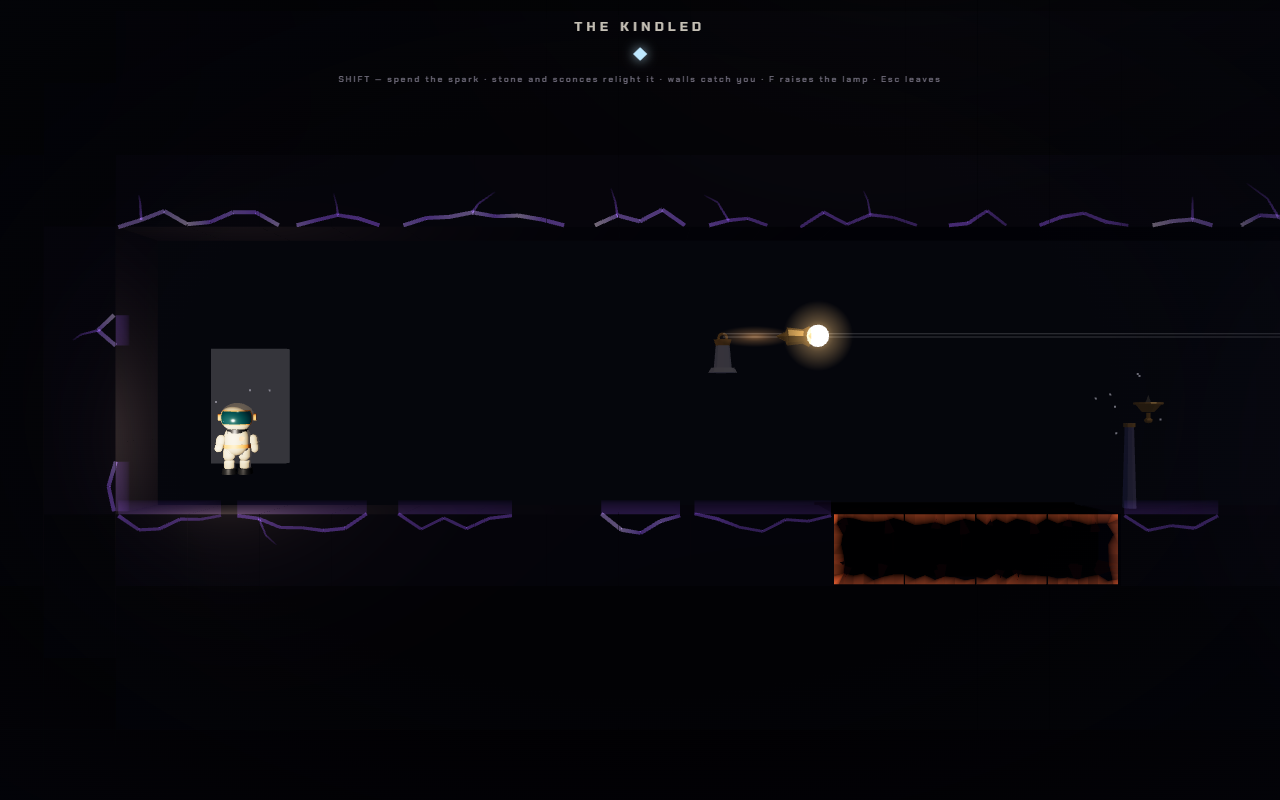
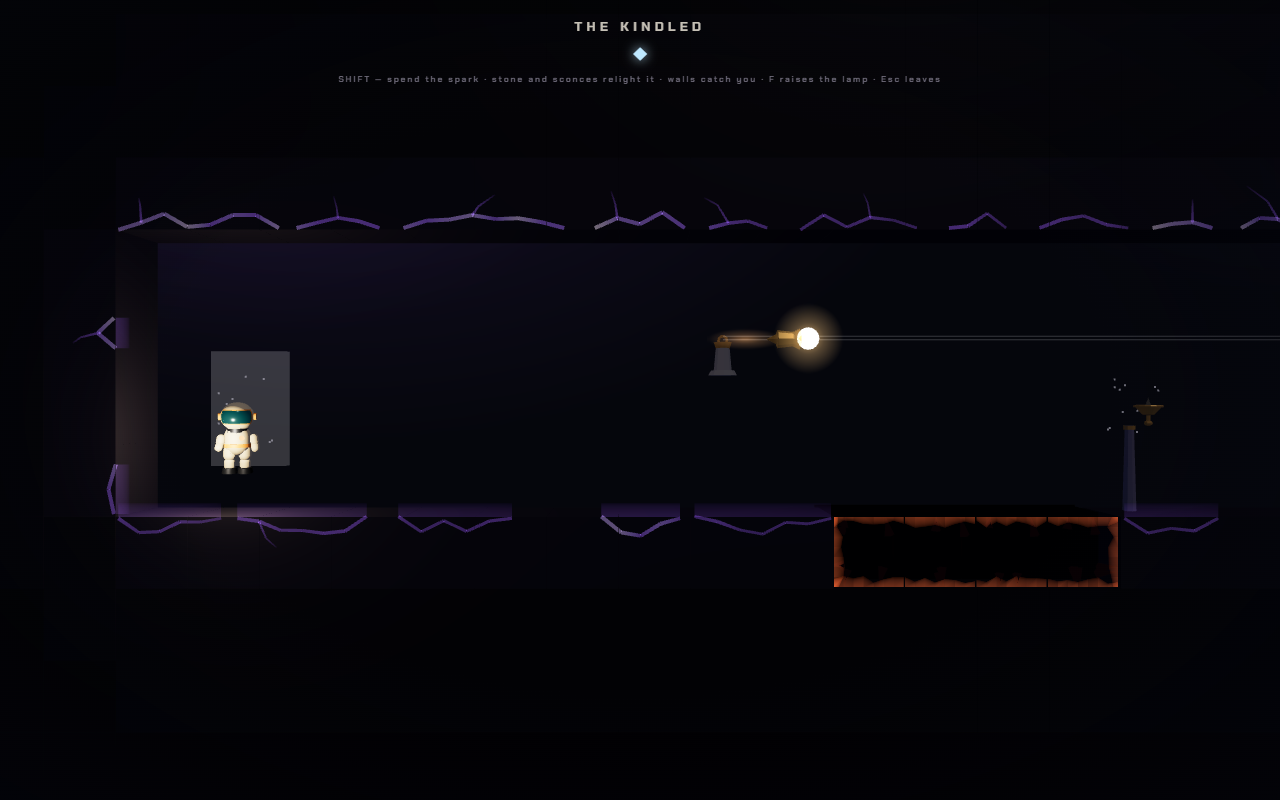
V4 · THE DEBT
A mirrored diptych sharing a wall, and the mirror is the lesson: everything
you did on the left, re-read upside down on the right. The pistons are one
system with the gravity — same period, opposite phase, both sides of the
ledger paid.

The door is not a lock. Its price is one sconce lit under each gravity, so
the sum cannot be paid without understanding both halves, which is what a
room means when it says this is arithmetic.

Two authoring errors the guardrails caught that reading the code would not
have. The shared wall is two courses thick and the doorway was cut through
only the far one, so the door was walled off from the side you approach it
from and the whole right cell was sealed — the reach model called it, the
old flood walk would have too but nothing was grading it. And the second
ledger sconce sat ON its course, which in up-gravity is the one place a body
can never rest: over there you hang against the underside.

Left out, on purpose: the walled-up doorway with a lit sconce visible through
the gap and no route to it. It is a lovely beat and it is atmosphere §3.5,
but an unreachable sconce is exactly what vaultfit exists to fail, and
teaching the suite to ignore one would cost more than the beat is worth. It
wants a decor-only glyph, which is a parser change, not a map change.

Graded: golden path proved, 3/3 sconces, clean on all three layout lints.

diff --git a/src/world/vaults.ts b/src/world/vaults.ts
@@ -652,46 +652,70 @@ export const VAULTS: VaultDef[] = [
       '############################################################'
     ],
   },
-  // 7 · THE DEBT — two rooms sharing a wall, and both sides get paid:
-  // the door to the stone takes a sconce lit under EACH gravity. Stone
-  // pistons still cycle on both sides — mirrored, out of phase.
+  // 7 · THE DEBT — a mirrored diptych sharing a wall, and the mirror is the
+  // lesson: everything you did on the left, re-read upside down on the right.
+  // The pistons are one system with the gravity — same period, opposite
+  // phase, both sides of the ledger paid.
+  //
+  // The door is not a lock. Its price is one sconce lit under EACH gravity,
+  // so the sum cannot be paid without understanding both halves, which is
+  // what "this is arithmetic" means when a room says it.
   {
     glyph: 'debt',
-    // one cut at the shared wall, one inside the upside-down cell — the
-    // arithmetic is paid twice, so it is framed twice
-    chambers: [20, 37],
+    chambers: [17, 35],
     doorNeeds: { '1': 2 },
     crushers: [
-      // left cell: pistons emerge from the walls across the ledge climb
-      { x: 1, y: 7, w: 2, h: 2, dx: 3, dy: 0, period: 3.4, phase: 0 },
-      { x: 19, y: 11, w: 2, h: 2, dx: -4, dy: 0, period: 3.4, phase: 0.5 },
-      // right cell, upside down: they drop from what you fall toward
-      { x: 30, y: 1, w: 2, h: 2, dx: 0, dy: 4, period: 3.4, phase: 0.75 },
-      { x: 38, y: 1, w: 2, h: 2, dx: 0, dy: 5, period: 2.55, phase: 0.25 },
+      // the left bank, out of the wall the way a piston has always come
+      { x: 1, y: 17, w: 2, h: 2, dx: 4, dy: 0, period: 3.4, phase: 0 },
+      { x: 13, y: 18, w: 2, h: 2, dx: -4, dy: 0, period: 3.4, phase: 0.5 },
+      // and the right bank, mirrored: same period, opposite phase, descending
+      // out of what the body over there calls the floor
+      { x: 24, y: 4, w: 2, h: 2, dx: 0, dy: 4, period: 3.4, phase: 0.5 },
+      { x: 26, y: 22, w: 2, h: 2, dx: 0, dy: -4, period: 3.4, phase: 0 },
+      // interleaved once more across the crossing
+      { x: 38, y: 4, w: 2, h: 2, dx: 0, dy: 3, period: 2.55, phase: 0.25 },
+      { x: 46, y: 17, w: 2, h: 2, dx: 0, dy: 3, period: 2.55, phase: 0.75 },
+    ],
+    censers: [
+      // one lantern per cell, swinging in each cell's own down
+      { x: 9, y: 16, len: 2.8, arc: 0.9, period: 2.55, phase: 0 },
+      { x: 27, y: 12, len: 2.8, arc: 0.9, period: 2.55, phase: 0.5 },
+    ],
+    shuttles: [
+      { x0: 20, y0: 7, x1: 34, y1: 7, period: 3.4, phase: 0.25 },
+      { x0: 15, y0: 20, x1: 3, y1: 20, period: 2.55, phase: 0.75 },
     ],
     map: [
       '######################################################',
       '######################################################',
+      '#................##^^^^^^^^^^^^^^^^^#^^^^^^^^#.......#',
+      '#................#############################.......#',
+      '#................##^^^^^^^^^^^^^^^^^#^^^^^^^^#.......#',
+      '#................##X^^^^^^^^ooooooo^#^^^^^^^^#.......#',
+      '#................##^#######^^^^^^^^^#^^ooooo^#.......#',
+      '#................##^^^^^^^^^^^^^^^^^#^######^#.......#',
+      '#................##^^^^^^^^^^^^^^^^^#^^^^^^^^#.......#',
+      '#..........#####S##^^^^^^^^########^#^^^^^^^^#.......#',
+      '#.########.......##^^^^^^^^^^^^^^^^^#^ooooo^^#.......#',
+      '#................##^^^^^^^^ooooooo^^##########.......#',
+      '#..ooooo.........#########^^^^^^^^^^#^^^^^^^^#.......#',
+      '#.......########.##^^^^^^^^^^^^^^^^X#^^^^^^^^#.......#',
+      '#X...............##^^^^^^^^^^^^^^^^^#^^^^^^^^#.......#',
+      '#...............X##^^^^^^^#########^^^^^^^^^^#.......#',
+      '########.........##^^^^^^^^^^^^^^^^^.........#######.#',
+      '#................##X^^^^^^^^^oooooo^.................#',
+      '#................##^########^^^^^^^^.................#',
+      '#........#######.##^^^^^^^^^^^^^^^^^..........oooooo.#',
+      '#...............X##^^^^^^^^^^^^^^^^^#.........########',
+      '#.........ooooo..##^^^^^^^^^#########................#',
+      '#.#######........11^^^^^^^^^^^^^^^^S#................#',
+      '#................11^oooooo^^^^^^^^^^#.........NoMoF..#',
+      '#X...............11########^^^^^^^^^#........#######.#',
+      '#..@..S.ooooooo..11^^^^^^^^^^^^^^^^^#................#',
+      '###################^^^^^^^^^^^^^^^^^#................#',
+      '#####################################................#',
       '######################################################',
-      '#....................^^^^^^XXX^^^^^^^SXX^^^^^^^^^^^^^'.slice(0, 53) + '#',
-      '#....................^^S^^^^^^^^^^^^^^^^^^^^^1^^^M^^^'.slice(0, 53) + '#',
-      '#....................^^^^^^^^^^^^^^^^^^^^^^^^1^^^^^^^'.slice(0, 53) + '#',
-      '#..............####..#####^^^^^^^^^^^^^^^^^^^1^^^^^^^'.slice(0, 53) + '#',
-      '#....................#####^^^^^^^^^^^^^^^^^^^^^^^^^^^'.slice(0, 53) + '#',
-      '#.....####...........#####^^^^^^^^^^^^^^^^^^^^^^^^^^^'.slice(0, 53) + '#',
-      '#....................#####^^^^^^^^^^^^^^^^^^^^^^^^^^^'.slice(0, 53) + '#',
-      '#............####....#####^^^^^^^^^^^^^^^^^^^^^^^^^^^'.slice(0, 53) + '#',
-      '#..S.................#####^^^^^^^^^^^^^^^^^^^^^^^^^^^'.slice(0, 53) + '#',
-      '#......####..........#####^^^^^^^^^^^^^^^^^^^^^^^^^^^'.slice(0, 53) + '#',
-      '#....................#####^^^^^^^^^^^^^^^^^^^^^^^^^^^'.slice(0, 53) + '#',
-      '#....................#####^^^^^^^^^^^^^^^^^^^^^^^^^^^'.slice(0, 53) + '#',
-      '#....................#####^^^^^^^^^^^^^^^^^^^^^^^^^^^'.slice(0, 53) + '#',
-      '#....................#####^^^^^^^^^^^^^^^^^^^^^^^^^^^'.slice(0, 53) + '#',
-      '#....................#####^^^^^^^^^^^^^^^^^^^^^^^^^^^'.slice(0, 53) + '#',
-      '#..@......F.........S#####^^^^^^^^^^^^^^^^^^^^^^^^^^^'.slice(0, 53) + '#',
-      '######################################################',
-      '######################################################',
-      '######################################################',
+      '######################################################'
     ],
   },
   // 8 · THE RETURN — the U walked in full: censers swing across the

diff --git a/scripts/author-debt.py b/scripts/author-debt.py
@@ -1,0 +1,166 @@
+"""THE DEBT — V4 authoring. 54 x 30, a mirrored diptych sharing a wall.
+
+Rotated gravity taught honestly, and the mirrored crushers are one system
+with it: the same period, opposite phase, both sides of the ledger paid. The
+door is not a lock — it is arithmetic, and its price is one sconce lit under
+EACH gravity, so the sum can only be paid by understanding both halves.
+
+Cuts at 17 and 35. The crossing past 35 is the last chamber: no sconce, and
+nothing in it either cell has not already taught.
+"""
+import io
+
+W, H = 54, 30
+g = [['.'] * W for _ in range(H)]
+
+
+def box(x0, y0, x1, y1, ch='#'):
+    for y in range(y0, y1 + 1):
+        for x in range(x0, x1 + 1):
+            if 0 <= y < H and 0 <= x < W:
+                g[y][x] = ch
+
+
+def run(y, x0, x1, ch='#'):
+    box(x0, y, x1, y, ch)
+
+
+def put(x, y, ch):
+    g[y][x] = ch
+
+
+box(0, 0, W - 1, 1)
+box(0, H - 1, W - 1, H - 1)
+box(0, 0, 0, H - 1); box(W - 1, 0, W - 1, H - 1)
+
+# =============================================================================
+# THE ANTECHAMBER and THE LEFT CELL · cols 1-16, gravity down.
+# A ledge climb with the wall's own pistons, read the way the whole game has
+# read a ledge climb up to now. This is the half you already know.
+# =============================================================================
+run(26, 1, 16)                    # the antechamber floor
+put(3, 25, '@')
+put(6, 25, 'S')                   # the entry sconce
+run(25, 8, 14, 'o')
+run(22, 2, 8)
+run(19, 9, 15)
+run(16, 1, 7)
+run(13, 8, 15)
+run(10, 2, 9)
+run(21, 10, 14, 'o')
+run(12, 3, 7, 'o')
+put(16, 9, 'S')                   # LEDGER ONE: lit under gravity as given
+box(11, 9, 15, 9)
+box(1, 24, 1, 24, 'X'); box(16, 20, 16, 20, 'X')
+box(1, 14, 1, 14, 'X'); box(16, 15, 16, 15, 'X')
+
+# =============================================================================
+# THE SHARED WALL · cols 17-18. The seam. Motes fall SIDEWAYS past it before
+# you cross, so the dialect is shown before it is entered.
+# =============================================================================
+box(17, 2, 18, 27)
+# the doorway is TWO courses thick, because the wall is: opening only the far
+# column leaves the door walled off from the side you approach it from
+box(17, 22, 18, 25, '1')          # the door, priced at two — one per gravity
+
+# =============================================================================
+# THE RIGHT CELL · cols 19-35, gravity UP. The same climb re-read: what your
+# body calls the floor is the ceiling, and the pistons descend out of it.
+# =============================================================================
+box(19, 2, 35, 27, '^')
+run(3, 19, 35)                    # the right cell's "floor", overhead
+run(6, 20, 26)
+run(9, 27, 34)
+run(12, 19, 25)
+run(15, 26, 34)
+run(18, 20, 27)
+run(21, 28, 35)
+run(24, 19, 26)
+run(27, 19, 35)                   # and its "ceiling", which is the stone below
+run(5, 28, 34, 'o')
+run(11, 27, 33, 'o')
+run(17, 29, 34, 'o')
+run(23, 20, 25, 'o')
+put(35, 22, 'S')                  # LEDGER TWO: lit under gravity reversed, and
+                                  # hung UNDER its course, because over there
+                                  # the body rests against the underside
+box(19, 5, 19, 5, 'X'); box(35, 13, 35, 13, 'X')
+box(19, 17, 19, 17, 'X')
+
+# =============================================================================
+# THE CROSSING · cols 36-52. Ketsu: over the seam at the top, gravity flipping
+# under you, both crusher banks interleaved. Density of the known.
+# =============================================================================
+box(36, 2, 36, 14)
+box(36, 20, 36, 27)
+run(15, 36, 44, '^')              # the flip happens mid-crossing
+box(37, 2, 44, 14, '^')
+run(3, 37, 45)
+run(7, 38, 43)
+run(11, 37, 44)
+run(6, 39, 43, 'o')
+run(10, 38, 42, 'o')
+run(16, 45, 51)                   # and out the far side, gravity as given
+run(20, 46, 52)
+run(24, 45, 51)
+run(19, 46, 51, 'o')
+run(23, 46, 50, 'o')
+put(48, 23, 'M')
+put(46, 23, 'N')
+put(50, 23, 'F')                  # feet pointing opposite ways across the wall
+box(45, 2, 45, 15)
+box(1, 28, 52, 28)                # and the bed under all of it, so the room
+box(1, 27, 16, 27)                # has no hollow nobody was meant to find
+
+rows = [''.join(r) for r in g]
+for i, r in enumerate(rows):
+    assert len(r) == W, f'row {i} is {len(r)}'
+
+defn = """  // 7 · THE DEBT — a mirrored diptych sharing a wall, and the mirror is the
+  // lesson: everything you did on the left, re-read upside down on the right.
+  // The pistons are one system with the gravity — same period, opposite
+  // phase, both sides of the ledger paid.
+  //
+  // The door is not a lock. Its price is one sconce lit under EACH gravity,
+  // so the sum cannot be paid without understanding both halves, which is
+  // what "this is arithmetic" means when a room says it.
+  {
+    glyph: 'debt',
+    chambers: [17, 35],
+    doorNeeds: { '1': 2 },
+    crushers: [
+      // the left bank, out of the wall the way a piston has always come
+      { x: 1, y: 17, w: 2, h: 2, dx: 4, dy: 0, period: 3.4, phase: 0 },
+      { x: 13, y: 18, w: 2, h: 2, dx: -4, dy: 0, period: 3.4, phase: 0.5 },
+      // and the right bank, mirrored: same period, opposite phase, descending
+      // out of what the body over there calls the floor
+      { x: 24, y: 4, w: 2, h: 2, dx: 0, dy: 4, period: 3.4, phase: 0.5 },
+      { x: 26, y: 22, w: 2, h: 2, dx: 0, dy: -4, period: 3.4, phase: 0 },
+      // interleaved once more across the crossing
+      { x: 38, y: 4, w: 2, h: 2, dx: 0, dy: 3, period: 2.55, phase: 0.25 },
+      { x: 46, y: 17, w: 2, h: 2, dx: 0, dy: 3, period: 2.55, phase: 0.75 },
+    ],
+    censers: [
+      // one lantern per cell, swinging in each cell's own down
+      { x: 9, y: 16, len: 2.8, arc: 0.9, period: 2.55, phase: 0 },
+      { x: 27, y: 12, len: 2.8, arc: 0.9, period: 2.55, phase: 0.5 },
+    ],
+    shuttles: [
+      { x0: 20, y0: 7, x1: 34, y1: 7, period: 3.4, phase: 0.25 },
+      { x0: 15, y0: 20, x1: 3, y1: 20, period: 2.55, phase: 0.75 },
+    ],
+    map: [
+%s
+    ],
+  },
+"""
+body = ',\n'.join("      '" + r + "'" for r in rows)
+out = defn % body
+
+p = 'src/world/vaults.ts'
+s = io.open(p, encoding='utf-8').read()
+start = s.index('  // 7 · THE DEBT')
+end = s.index('  // 8 · THE RETURN')
+s = s[:start] + out + s[end:]
+io.open(p, 'w', encoding='utf-8').write(s)
+print('DEBT written:', len(rows), 'rows x', W)
